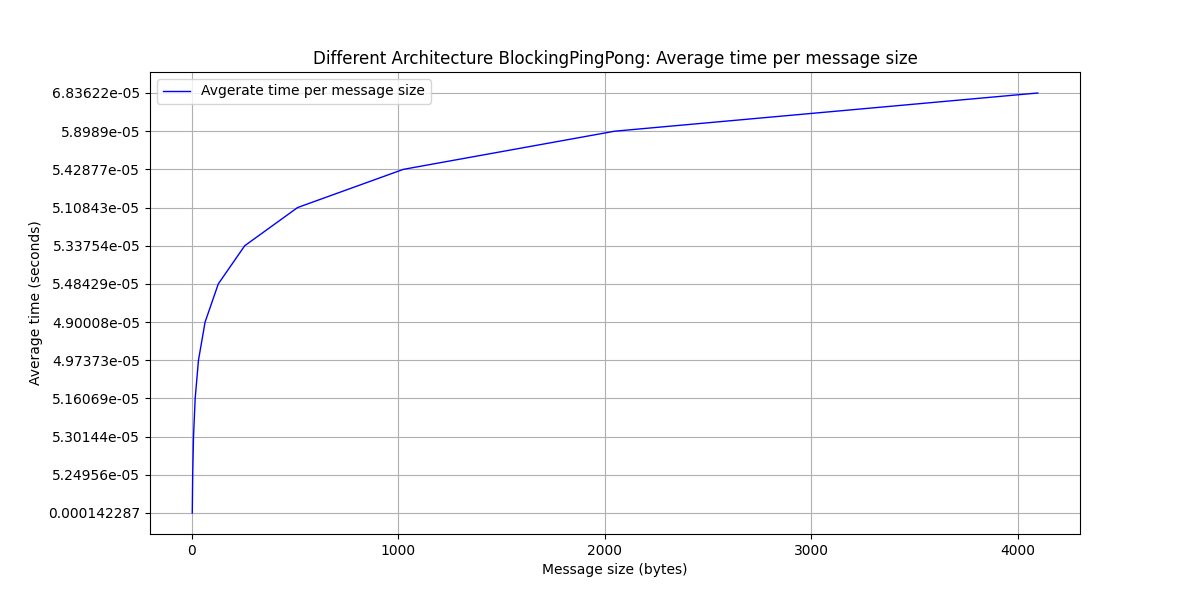
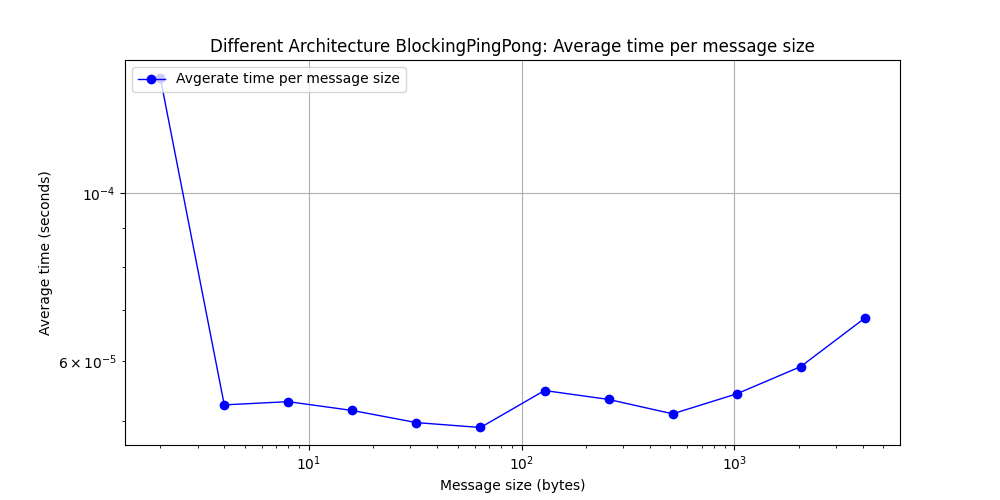
Generated correct plots for part 1

diff --git a/blockingPingPong.cpp b/blockingPingPong.cpp
@@ -48,20 +48,24 @@ int main(int argc, char *argv[])
     for (int i = 0; i < 12; i++) {
         char *buffer = (char *)malloc(message_size[i] * sizeof(char));
         double total_time = 0;
+        int total_message_size = 0;
 
         for (int n=0; n<num_iterations; n++) {
             if (rank == 0) {
                 start_time = MPI_Wtime();
 
                 MPI_Send(buffer,message_size[i] / sizeof(char),MPI_CHAR, processB,0,MPI_COMM_WORLD);
+                total_message_size += message_size[i]
                 MPI_Recv(buffer,message_size[i] / sizeof(char),MPI_CHAR, processB,0,MPI_COMM_WORLD,MPI_STATUS_IGNORE);
-
+                total_message_size += message_size[i]
 
                 end_time = MPI_Wtime();
 
             } else if (rank == 1){
                 MPI_Recv(buffer,message_size[i] / sizeof(char),MPI_CHAR, processA,0,MPI_COMM_WORLD,MPI_STATUS_IGNORE);
+                total_message_size += message_size[i]
                 MPI_Send(buffer,message_size[i] / sizeof(char),MPI_CHAR,processA,0,MPI_COMM_WORLD);
+                total_message_size += message_size[i]
                 
             }
 
@@ -72,7 +76,7 @@ int main(int argc, char *argv[])
 
 
         if (rank == 0) {
-            printf("Average time to complete the ping-pong exchange with message size %d: %f\n", message_size[i], avg_time);
+            printf("Average time to complete the ping-pong exchange with message size %d: %f. Total message size: %d\n", message_size[i], avg_time, total_message_size);
             avg_time_matrix[i] = avg_time;
             csvFile << avg_time << ",";
         }

diff --git a/graphs.py b/graphs.py
@@ -4,13 +4,13 @@ import numpy as np
 
 
 def main():
-    csv_file_path_same_architecture = 'blockingPingPong.csv'
+    csv_file_path_same_architecture = 'blockingPingPongSAMEARCHITECTURE.csv'
 
     csv_file_path_different_architecture = 'blockingPingPongDIFFERENTARCHITECTURE.csv'
 
 
     # to print specified csv file, change this path!
-    csv_file_path_for_graphic = csv_file_path_different_architecture
+    csv_file_path_for_graphic = csv_file_path_same_architecture
 
 
 
@@ -20,12 +20,19 @@ def main():
     df = pd.read_csv(csv_file_path_for_graphic, low_memory=False)
 
     # Does not include the unnamed columns element
-    avg_time_row = df.columns[0:12]
+    avg_time_row_string = df.columns[0:12]
 
-    plt.figure(figsize = (12,6))
-    plt.plot(message_sizes, avg_time_row, label='Avgerate time per message size', linestyle='-', linewidth=1, color='blue')
+    avg_time_row = [float(value) for value in avg_time_row_string]
+
+    print(avg_time_row)
+
+    plt.figure(figsize = (10,5))
+    plt.loglog(message_sizes, avg_time_row, label='Avgerate time per message size', linestyle='-', linewidth=1, color='blue', marker='o')
+    #plt.scatter(message_sizes, avg_time_row, label='Avgerate time per message size', linestyle='-', linewidth=1, color='blue')
     plt.xlabel('Message size (bytes)')
     plt.ylabel('Average time (seconds)')
+ 
+
     plt.legend(loc='upper left',)
     plt.grid(True)
     plt.title("BlockingPingPong: Average time per message size")

diff --git a/Project3Writeup.md b/Project3Writeup.md
@@ -7,11 +7,11 @@ Your task is to implement the ping-pong problem using MPI in C or C++ and analyz
 2. Measure the time taken to complete the ping-pong exchange for different message sizes. You should use the `MPI_Wtime()` function to obtain the time before and after the exchange and calculate the elapsed time. Vary the message size from 2 bytes to 4 kilobytes in powers of 2 (i.e., 2 bytes, 4 bytes, 8 bytes,..., 2048 bytes, 4096 bytes). For each message size, perform 100 iterations of the ping-pong to build up statistical significance.
     Done!
 3. Record the total amount of data sent and received during the ping-pong exchange for each configuration.
-    Done!
+    TODO: Jacob?
 4. Repeat steps 2 and 3 but ensure that the 2 processes that are communicating reside on different physical hardware nodes on HPCC.
 5. Plot the average communication time of a single exchange (send and receive) as a function of message size for the two cases. Using this plot, estimate the _latency_ and _bandwidth_ for each case. Are they different? Explain your results.
 
-TODO: Calculate Latency and Bandwidth
+TODO: Calculate Latency and Bandwidth (and For each message size, perform 100 iterations of the ping-pong to build up statistical significance) maybe in a table?-> Jacob?
 ![Blocking Ping Pong on the same architecture](blockingPingPongAverageTimePerMessageSizeSAMEARCHITECTURE.png)
 ![Blocking Ping Pong on the same architecture](blockingPingPongAverageTimePerMessageSizeDIFFERENTARCHITECTURE.png)
 
